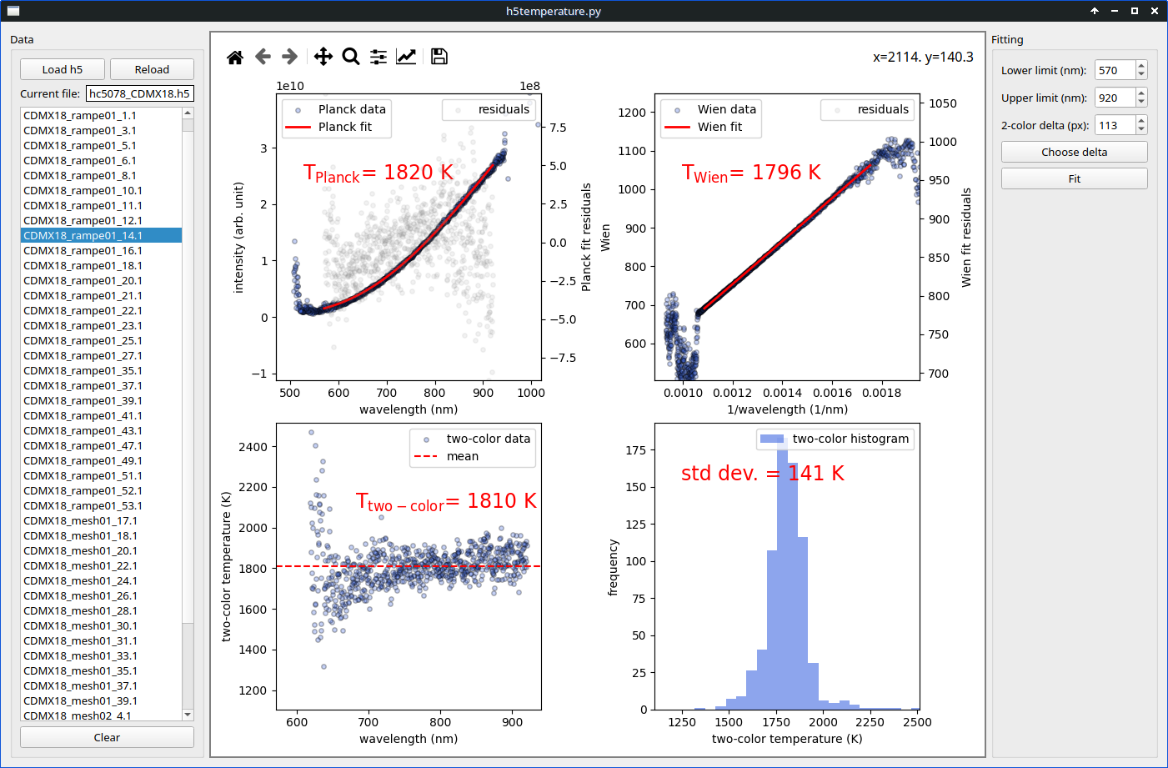
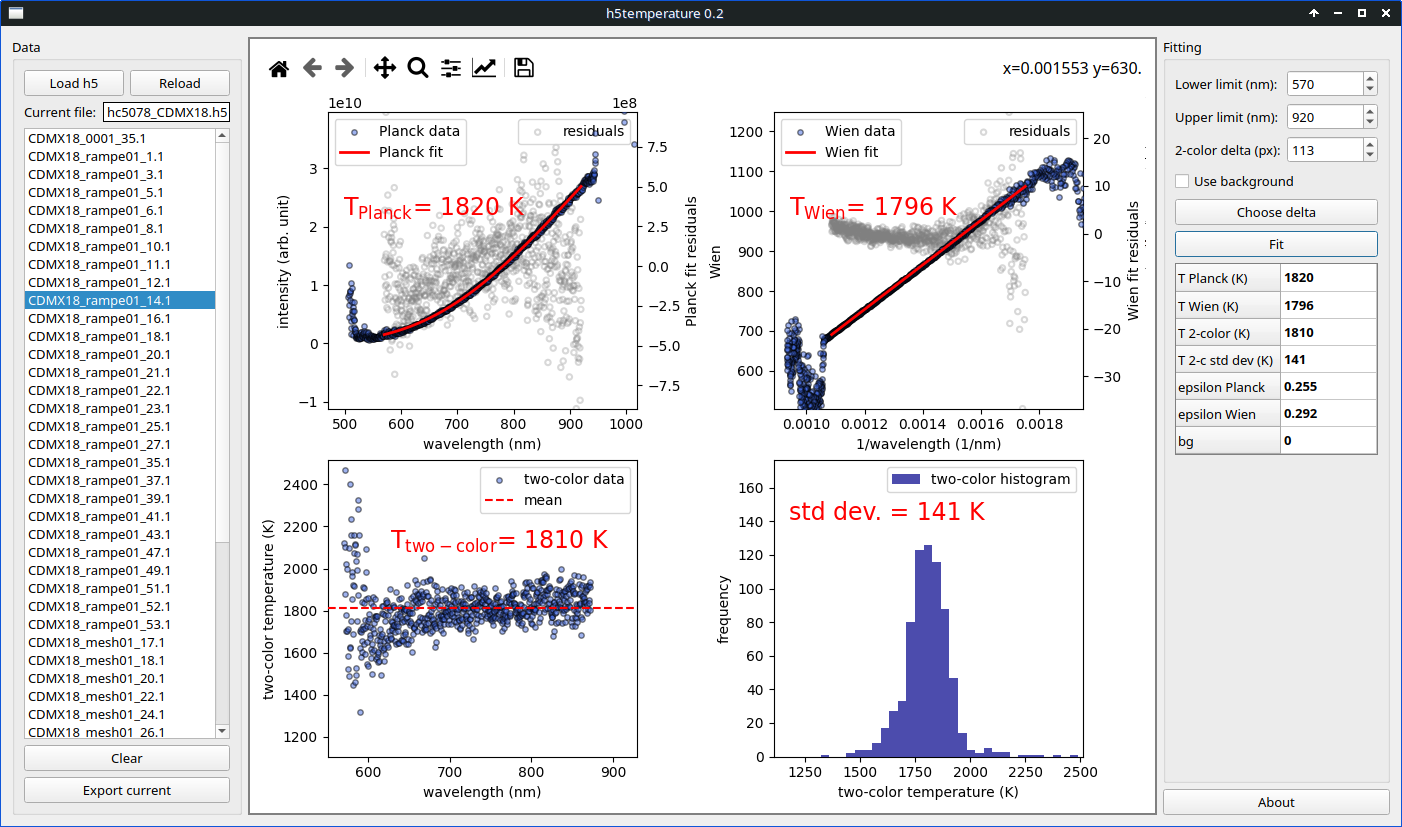
v0.2 before testing exe using nuitka on windows

diff --git a/h5temperatureAbout.py b/h5temperatureAbout.py
@@ -1,0 +1,90 @@
+#   Copyright (C) 2023-2024 Alexis Forestier (alforestier@gmail.com)
+#   
+#   This file is part of h5temperature.
+#   
+#   h5temperature is free software: you can redistribute it and/or modify it 
+#   under the terms of the GNU General Public License as published by the 
+#   Free Software Foundation, either version 3 of the License, or 
+#   (at your option) any later version.
+#   
+#   h5temperature is distributed in the hope that it will be useful, 
+#   but WITHOUT ANY WARRANTY; without even the implied warranty of 
+#   MERCHANTABILITY or FITNESS FOR A PARTICULAR PURPOSE. 
+#   See the GNU General Public License for more details.
+#   
+#   You should have received a copy of the GNU General Public License 
+#   along with h5temperature. If not, see <https://www.gnu.org/licenses/>.
+
+from PyQt5.QtWidgets import QWidget, QLabel, QVBoxLayout
+from PyQt5.QtCore import Qt
+
+
+class AboutWindow(QWidget):
+    def __init__(self):
+        super().__init__()
+
+        self.resize(600, 400)
+        self.setWindowTitle('About h5temperature')
+        self.setStyleSheet("background-color: white;")
+
+        layout = QVBoxLayout()
+
+        title = QLabel('h5temperature')
+        title.setStyleSheet("font-weight: bold;"
+                            "font-size: 20pt")
+
+        text1 = QLabel('h5temperature is a user-friendly application designed '
+                    'for analyzing radiometric temperature measurements from '
+                    'laser-heating experiments in diamond anvil cells. '
+                    'It supports ESRF HDF5 data files, offers data fitting '
+                    'with Planck and Wien formulas, and sliding two-color '
+                    'pyrometry analysis. ' 
+                    'The analysis methods used in h5temperature' 
+                    ' are detailed in: ')
+
+        link = QLabel(
+                '<a href=\"https://doi.org/10.1080/08957950412331331718\">'
+                'Benedetti and Loubeyre (2004), '
+                'High Pressure Research, 24:4, 423-445</a>')
+        link.setOpenExternalLinks(True)
+
+        text2 = QLabel('h5temperature is free software: you can redistribute '
+                        'it and/or modify it under the terms of the ' 
+                        'GNU General Public License as published by the '
+                       'Free Software Foundation, either version 3 of the ' 
+                       'License, or (at your option) any later version. '
+                       'h5temperature is distributed in the hope that it ' 
+                       'will be useful, but WITHOUT ANY WARRANTY; without ' 
+                       'even the implied warranty of MERCHANTABILITY or '
+                       'FITNESS FOR A PARTICULAR PURPOSE. See the GNU '
+                       'General Public License for more details. '
+                       'You should have received a copy of the GNU General '
+                       'Public License along with h5temperature. ' 
+                       'If not, see <a href=\"https://www.gnu.org/licenses/\">'
+                       'https://www.gnu.org/licenses/</a>.')
+        text2.setOpenExternalLinks(True)
+
+        text3 = QLabel('Copyright 2023-2024 Alexis Forestier '
+                       '(alforestier@gmail.com)')
+
+        title.setAlignment(Qt.AlignCenter)
+        text1.setAlignment(Qt.AlignCenter)
+        link.setAlignment(Qt.AlignCenter)
+        text2.setAlignment(Qt.AlignCenter)
+        text3.setAlignment(Qt.AlignCenter)
+
+        title.setWordWrap(True)
+        text1.setWordWrap(True)
+        link.setWordWrap(True)
+        text2.setWordWrap(True)
+        text3.setWordWrap(True)
+
+        layout.addWidget(title)
+        layout.addWidget(text1)
+        layout.addWidget(link)
+        layout.addStretch()
+        layout.addWidget(text2)
+        layout.addStretch()
+        layout.addWidget(text3)
+
+        self.setLayout(layout)

diff --git a/h5temperature.py b/h5temperature.py
@@ -17,7 +17,6 @@
 
 import sys
 import numpy as np
-#import traceback
 import h5py
 from scipy.optimize import curve_fit
 import matplotlib
@@ -29,7 +28,6 @@ from PyQt5.QtWidgets import (QApplication,
                              QLabel,
                              QSpinBox,
                              QCheckBox,
-#                            QDoubleSpinBox,
                              QTableWidget,
                              QTableWidgetItem,
                              QAbstractItemView,
@@ -43,22 +41,12 @@ from PyQt5.QtWidgets import (QApplication,
                              QFileDialog,
                              QMessageBox,
                              QSizePolicy)
+
 from h5temperaturePhysics import temp2color
 from h5temperatureModels import BlackBodyFromh5
+from h5temperatureAbout import AboutWindow
 
-
-class AboutWindow(QWidget):
-    def __init__(self):
-        super().__init__()
-
-        self.resize(300,200)
-
-        self.setWindowTitle('About')
-
-        layout = QVBoxLayout()
-        layout.addWidget(QLabel('good'))
-
-        self.setLayout(layout)
+__version__ = '0.2'
 
 class SinglePlotCanvas(FigureCanvasQTAgg):
     def __init__(self, parent=None):
@@ -122,6 +110,7 @@ class MainWindow(QWidget):
     def __init__(self):
         super().__init__()
 
+        self.setWindowTitle('h5temperature {}'.format(__version__))
         self.resize(1400,800)
 
         # data stored in self

diff --git a/README.md b/README.md
@@ -1,16 +1,18 @@
 # h5temperature
 
+![An example](example.png)
+
 ## Description
 
-h5temperature is a GUI application that allows for the analysis of radiometric temperature measurements within the diamond anvil cell from ESRF HDF5 data files. It allows users to fit data using Planck and Wien formulas, as well as conduct sliding two-color pyrometry analysis. For detailed information on methods, see [Laura Robin Benedetti & Paul Loubeyre (2004), Temperature gradients,
+h5temperature is a user-friendly application designed for analyzing radiometric temperature measurements from laser-heating experiments in diamond anvil cells. It supports ESRF HDF5 data files, offers data fitting with Planck and Wien formulas, and sliding two-color pyrometry analysis. The methods used in h5temperature are detailed in: [Benedetti & Loubeyre (2004), Temperature gradients,
 wavelength-dependent emissivity, and accuracy of high and very-high temperatures
 measured in the laser-heated diamond cell, High Pressure Research, 24:4, 423-445](https://doi.org/10.1080/08957950412331331718). 
 
-## What's new (v0.1)
+## What's new (v0.2)
 * Constant background in Planck data fitting is available
 * A table resuming fit results in the right panel
-* Export raw Planck data as ASCII text for further analysis with other tools
-* Solved a few bugs, e.g. now residuals for Wien are printed correctly
+* Export data as ASCII for further analysis with other tools
+* Solved a few bugs
 
 ## Requirements 
 
@@ -21,7 +23,6 @@ Python3 packages:
 * matplotlib
 * scipy
 * pyqt5
-* python-dateutil
 
 ## Running the Program
 
@@ -51,22 +52,14 @@ Tested on Windows 10 only.
 
 ## Use 
 
-Use the "Load h5" button to load a specific HDF5 file. **Currently, you must open the .h5 file corresponding to a *newsample('Samplename')* created from BLISS, typically named *Proposalname_Samplename.h5*.** 
+Use the "Load h5" button to load a specific HDF5 file. **Currently, one must open the .h5 file corresponding to a *newsample('Samplename')* created from BLISS, typically named *Proposalname_Samplename.h5*.** 
 All temperature measurements within this file will be displayed.
 
 A first fitting is performed automatically upon clicking. If you make changes to the parameters, click "Fit" to apply them. 
 
-Currently, exporting data is not supported.
-
-## Example
-
-![An example](example.png)
-
-
 ## Future improvements
 
-* Export Wien and Two-color data as ASCII.
 * Save and load sessions.
 * Export results of all fits for the whole session...
-* Recursively locate temperature data from any HDF5 file in the arborescence?
+* Recursively locate temperature data from any HDF5 file in the arborescence.
 * Ability to load txt files from other sources than ESRF h5 data.
